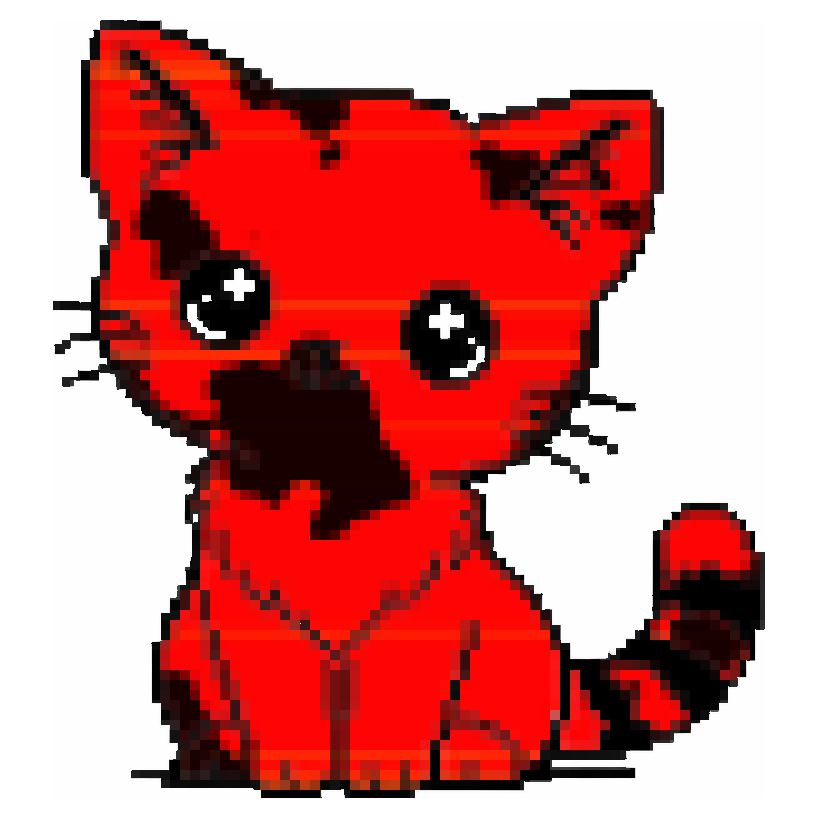
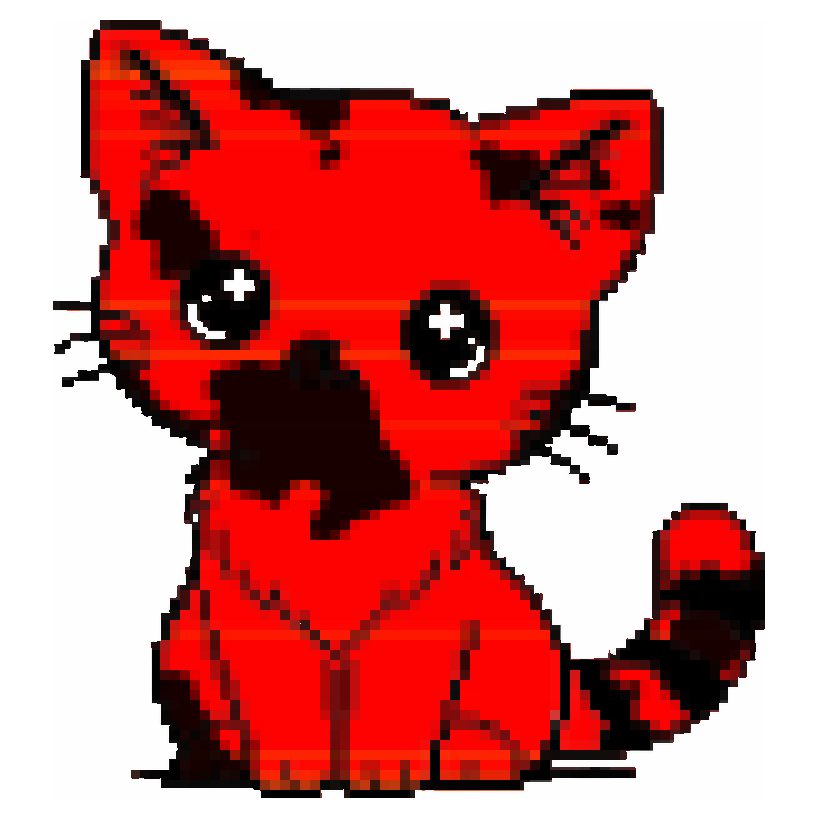
Fix white halos around eyes and whiskers
The tinting threshold (brightness > 200) was too high, leaving
anti-aliased gray pixels around outlines untinted. Lowered to 120
with a smooth blend ramp so those pixels also get the quantization
color. Also disabled detail buffer by default (was creating visible
gaps) and tightened flood-fill threshold to 230.

https://claude.ai/code/session_01Y1zeYokrXQCEx2qjFvhX8B

diff --git a/excat.py b/excat.py
@@ -364,7 +364,7 @@ def find_content_bbox(img: Image.Image, threshold: int = 240) -> tuple[int, int,
 
 def build_background_mask(
     img: Image.Image,
-    threshold: int = 200,
+    threshold: int = 230,
     eye_max_fraction: float = 0.0015,
 ) -> list[list[bool]]:
     """Flood-fill from image edges to identify background pixels, plus eye whites.
@@ -574,9 +574,8 @@ def generate_excat(
                     continue
                 r, g, b, a = pixels[x, y]
                 brightness = (r + g + b) / 3
-                if brightness > 200:
-                    blend = (brightness - 200) / 55.0
-                    blend = min(1.0, blend)
+                if brightness > 120:
+                    blend = min(1.0, (brightness - 120) / 135.0)
                     nr = int(r + blend * (color[0] - r))
                     ng = int(g + blend * (color[1] - g))
                     nb = int(b + blend * (color[2] - b))
@@ -645,9 +644,9 @@ def main():
     parser.add_argument(
         "-d", "--detail-radius",
         type=int,
-        default=1,
+        default=0,
         metavar="PX",
-        help="Buffer zone around outlines where fur markings won't appear (default: 1)",
+        help="Buffer zone around outlines where fur markings won't appear (default: 0, off)",
     )
     args = parser.parse_args()
 
